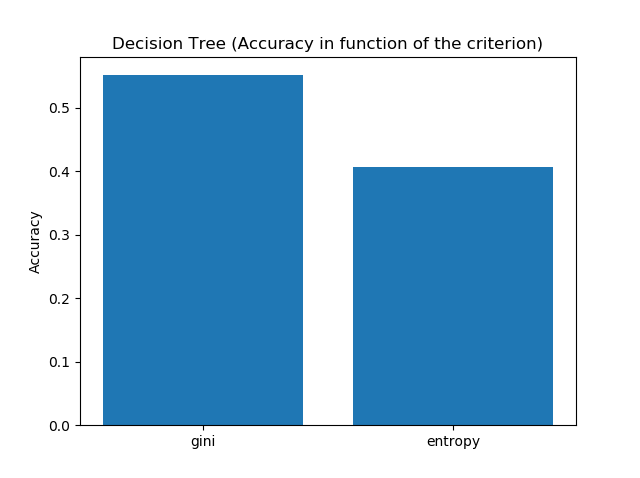
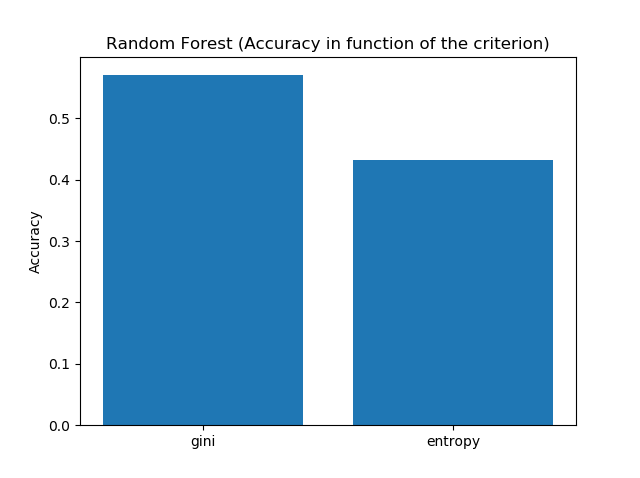
Starting Imdb

diff --git a/Project 2/main.py b/Project 2/main.py
@@ -16,6 +16,7 @@ import os, re, string
 # Get the data
 from sklearn.datasets import fetch_20newsgroups
 os.system("wget http://ai.stanford.edu/~amaas/data/sentiment/aclImdb_v1.tar.gz")
+#os.system('powershell -command Invoke-WebRequest " http://ai.stanford.edu/~amaas/data/sentiment/aclImdb_v1.tar.gz" -OutFile "aclImdb_v1.tar.gz"')
 os.system("gunzip aclImdb_v1.tar.gz")
 os.system("tar -xvf aclImdb_v1.tar")
 
@@ -381,12 +382,12 @@ def fit_epsilon(min_eps, max_eps, clf, dataset, step, k=5):
     plt.plot(eps_lst, acc_list, 'ro')
     plt.xlabel('Tolerance for stopping criteria')
     plt.ylabel('Accuracy')
-    plt.title('Support Vector Machine (Accuracy depending on the Tolerance for stopping criteria)')
+    plt.title('Logistic Regression (Accuracy depending on the Tolerance for stopping criteria)')
     plt.show()
     plt.plot(eps_lst, ent_list, 'ro')
     plt.xlabel('Tolerance for stopping criteria')
     plt.ylabel('Log Cross Entropy')
-    plt.title('Support Vector Machine (Log Cross Entropy depending on the Tolerance for stopping criteria)')
+    plt.title('Logistic Regression (Log Cross Entropy depending on the Tolerance for stopping criteria)')
     plt.show()
 
     return best_eps
@@ -409,12 +410,12 @@ def fit_iter(min_iter, max_iter, clf, dataset, step, k=5):
     plt.plot(iter_lst, acc_list, 'ro')
     plt.xlabel('Maximum number of iteration')
     plt.ylabel('Accuracy')
-    plt.title('Support Vector Machine (Accuracy depending on the Maximum number of iteration)')
+    plt.title('Logistic Regression (Accuracy depending on the Maximum number of iteration)')
     plt.show()
     plt.plot(iter_lst, ent_list, 'ro')
     plt.xlabel('Maximum number of iteration')
     plt.ylabel('Log Cross Entropy')
-    plt.title('Support Vector Machine (Log Cross Entropy depending on the Maximum number of iteration)')
+    plt.title('Logistic Regression (Log Cross Entropy depending on the Maximum number of iteration)')
     plt.show()
 
     return best_iter
@@ -438,12 +439,12 @@ def fit_regu(min_c, max_c, clf, dataset, step, k=5):
     plt.plot(c_lst, acc_list, 'ro')
     plt.xlabel('Inverse of regularisation strength')
     plt.ylabel('Accuracy')
-    plt.title('Support Vector Machine (Accuracy depending on the Inverse of regularisation strength)')
+    plt.title('Logistic Regression (Accuracy depending on the Inverse of regularisation strength)')
     plt.show()
     plt.plot(c_lst, ent_list, 'ro')
     plt.xlabel('Inverse of regularisation strength')
     plt.ylabel('Log Cross Entropy')
-    plt.title('Support Vector Machine (Log Cross Entropy depending on the Inverse of regularisation strength)')
+    plt.title('Logistic Regression (Log Cross Entropy depending on the Inverse of regularisation strength)')
     plt.show()
 
     return best_c
@@ -586,11 +587,11 @@ def compare_criterion_tree(clf, dataset, criterions=['gini', 'entropy'], k=5):
     # Plot the results
     plt.bar(criterions, acc_list)
     plt.ylabel('Accuracy')
-    plt.title('Decision Tree (Accuracy in function of the criterion)')
+    plt.title('Random Forest (Accuracy in function of the criterion)')
     plt.show()
     plt.bar(criterions, ent_list)
     plt.ylabel('Log Cross Entropy')
-    plt.title('Decision Tree (Log Cross Entropy in function of the criterion)')
+    plt.title('Random Forest (Log Cross Entropy in function of the criterion)')
     plt.show()
 
 def compare_splitter_tree(clf, dataset, splits=['best', 'random'], k=5):
@@ -675,8 +676,8 @@ def final_evaluation(clf_list, train_set, test_set):
 ## List of the classifiers
 
 mnb = nb.MultinomialNB()
-cnb = nb.ComplementNB()
-lr = sk.linear_model.LogisticRegression(solver='lbfgs', multi_class='multinomial')
+cnb = nb.ComplementNB(alpha=0.315)
+lr = sk.linear_model.LogisticRegression(solver='lbfgs', max_iter=300, multi_class='multinomial')
 svm = sk.svm.LinearSVC()
 dtr = sktree.DecisionTreeClassifier()
 rfc = skens.RandomForestClassifier()
@@ -688,8 +689,8 @@ clf_names = ['Multinomial Naive Bayes', 'Complement Naive Bayes', 'Logistic Regr
 
 ## Preprocessing parameters
 
-max_thresh = 0.58
-min_thresh = 0
+max_thresh = 0.9
+min_thresh = 1e-4
 
 def naive_tokenizer(s):
     return s.split()
@@ -707,31 +708,32 @@ vectorizer = sk.feature_extraction.text.CountVectorizer(stop_words='english', ma
 
 
 ### 20 NEWS GROUP DATASET ###
+"""
 twenty_train = fetch_20newsgroups(subset='train', remove=(['headers', 'footers', 'quotes']))
-
+"""
 ### Choose the preprocessing parameters
 
 #best_ngram(1, 2, vectorizer, cnb, twenty_train.data, twenty_train.target)
 #test_tokenizer(token_list, token_names, vectorizer, cnb, twenty_train.data, twenty_train.target)
 #test_counting(vectorizer, cnb, twenty_train.data, twenty_train.target)
-#print(fit_min_threshold(0, 0.15, 10, vectorizer, cnb, twenty_train.data, twenty_train.target, 5))
+#print(fit_min_threshold(0, 0.001, 10, vectorizer, cnb, twenty_train.data, twenty_train.target, 5))
 #print(fit_max_threshold(0.5, 1, 20, vectorizer, cnb, twenty_train.data, twenty_train.target, 5))
 #test_stopwords(sw_lst, sw_names, vectorizer, cnb, twenty_train.data, twenty_train.target, 5)
 
 ### Find the hyperparameters of the classifier
 
-
+"""
 X = get_vectors(vectorizer, twenty_train.data)
 Y = scipy.sparse.csr_matrix(twenty_train.target).transpose()
 dataset = scipy.sparse.hstack([X, Y], format="csr")
 dataset = sk.utils.shuffle(dataset)
-
+"""
 #print(fit_smoothing_nb(mnb, dataset, 20))
 
 #print(fit_smoothing_nb(cnb, dataset, 20))
 
 #print(fit_epsilon(1.e-4, 1.e-3, lr, dataset, 5))
-#fit_iter(300, 700, lr, dataset, 5)
+#fit_iter(300, 700, lr, dataset, 3)
 #print(fit_regu(0.1, 10, lr, dataset, 10))
 
 #print(fit_epsilon(1.e-4, 2.e-3, svm, dataset, 20))
@@ -754,7 +756,7 @@ dataset = sk.utils.shuffle(dataset)
 
 
 ### Final test
-
+"""
 mnb = nb.MultinomialNB(alpha=0.05)
 cnb = nb.ComplementNB(alpha=0.315)
 lr = sk.linear_model.LogisticRegression(solver='lbfgs', tol=1e-3, C=3.4, max_iter=300, multi_class='multinomial')
@@ -771,8 +773,8 @@ twenty_test = fetch_20newsgroups(subset='test', remove=(['headers', 'footers', '
 X_test = get_vectors(vectorizer, twenty_test.data, fit=False)
 Y_test = scipy.sparse.csr_matrix(twenty_test.target).transpose()
 test_set = scipy.sparse.hstack([X_test, Y_test], format="csr")
-
-final_evaluation(clf_list, dataset, test_set)
+"""
+#print(final_evaluation(clf_list, dataset, test_set))
 
 
 ### IMDB DATASET ###
@@ -806,21 +808,64 @@ print(train)
 #print()
 #print(f"Review's label: {train_y[0]}")
 
-"""
-# Create same vocab for train and validation sets
-train_term_doc = vectorizer.fit_transform(train)
-val_term_doc = vectorizer.transform(val)
-"""
-"""
-fit_min_threshold(0, 0.25, 5, vectorizer, cnb, train, train_y, 5)
 
+# Create same vocab for train and validation sets
+#train_term_doc = vectorizer.fit_transform(train)
+#val_term_doc = vectorizer.transform(val)
+
+
+max_thresh = 0.9
+min_thresh = 1e-4
+
+vectorizer = sk.feature_extraction.text.CountVectorizer(min_df=min_thresh, max_df=max_thresh)
+
+### Choose the preprocessing parameters
+
+best_ngram(1, 2, vectorizer, cnb, train, train_y)
+vectorizer.set_params(ngram_range=(1, 1))
+test_tokenizer(token_list, token_names, vectorizer, cnb, train, train_y)
+vectorizer.set_params(tokenizer=None)
+test_counting(vectorizer, cnb, train, train_y)
+print(fit_min_threshold(0, 0.15, 10, vectorizer, cnb, train, train_y, 5))
+vectorizer.set_params(min_df=min_thresh)
+print(fit_max_threshold(0.5, 0.75, 20, vectorizer, cnb, train, train_y, 5))
+vectorizer.set_params(min_df=max_thresh)
+test_stopwords(sw_lst, sw_names, vectorizer, cnb, train, train_y.target, 5)
+
+"""
 X = get_vectors(vectorizer, train)
 Y = scipy.sparse.csr_matrix(train_y).transpose()
 dataset = scipy.sparse.hstack([X, Y], format="csr")
 dataset = sk.utils.shuffle(dataset)
 
-compare_classifiers(clf_list, clf_names, dataset)
 """
+### Find the hyperparameters of the classifier
+
+#print(fit_smoothing_nb(mnb, dataset, 20))
+
+#print(fit_smoothing_nb(cnb, dataset, 20))
+
+#print(fit_epsilon(1.e-4, 1.e-3, lr, dataset, 5))
+#fit_iter(300, 700, lr, dataset, 5)
+#print(fit_regu(0.1, 10, lr, dataset, 10))
+
+#print(fit_epsilon(1.e-4, 2.e-3, svm, dataset, 20))
+#fit_iter(800, 1500, svm, dataset, 8)
+#print(fit_regu(0.1, 2, svm, dataset, 10))
+#compare_penalty_svm(svm, dataset)
+#compare_loss_svm(svm, dataset)
+
+#compare_criterion_tree(dtr, dataset)
+#compare_splitter_tree(dtr, dataset)
+
+#compare_criterion_tree(rfc, dataset)
+#print(fit_number_random_forest(10, 50, ada, dataset, 5))
+
+#print(fit_number_adaboost(10, 50, ada, dataset, 5))
+#print(fit_learning_adaboost(0.75, 1.25, ada, dataset, 5))
+
+
+#print(compare_classifiers(clf_list, clf_names, dataset))
 
 ### Final test
 """
@@ -845,23 +890,9 @@ evaluate_model(cnb, dataset, test_set)
 
 """
 #######################
-# Definition of the classifiers and the tools used for preprocessing
-def naive_tokenizer(s):
-    return s.split()
+
 
 ps = PorterStemmer()
-#######################
-
-
-neg_X = preprocessing_stem('.\\rt-polaritydata\\rt-polaritydata\\rt-polarity.neg', ps)
-pos_X = preprocessing_stem('.\\rt-polaritydata\\rt-polaritydata\\rt-polarity.pos', ps)
-raw_X = neg_X + pos_X
 
 pst = PunktSentenceTokenizer(raw_X)
-
-######################
-
-svm1 = sk.svm.LinearSVC(penalty='l2', loss='hinge', max_iter=2000)
-svm2 = sk.svm.LinearSVC(loss='squared_hinge', max_iter=2000)
-svm3 = sk.svm.LinearSVC(dual=False, max_iter=2000)
 """
